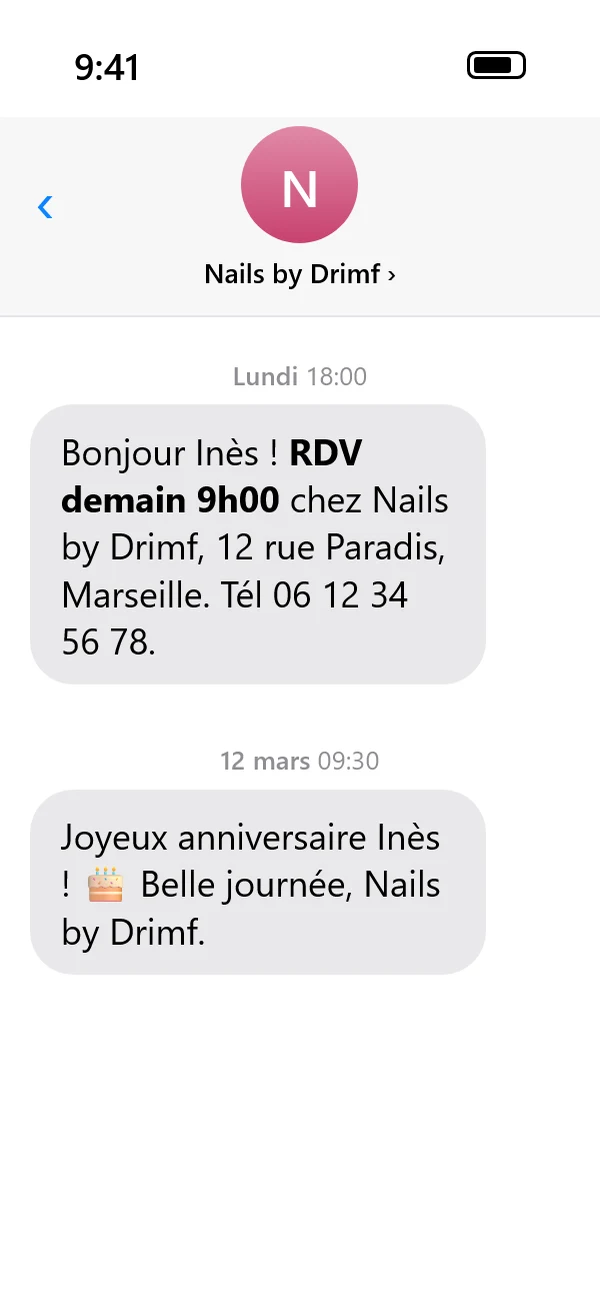
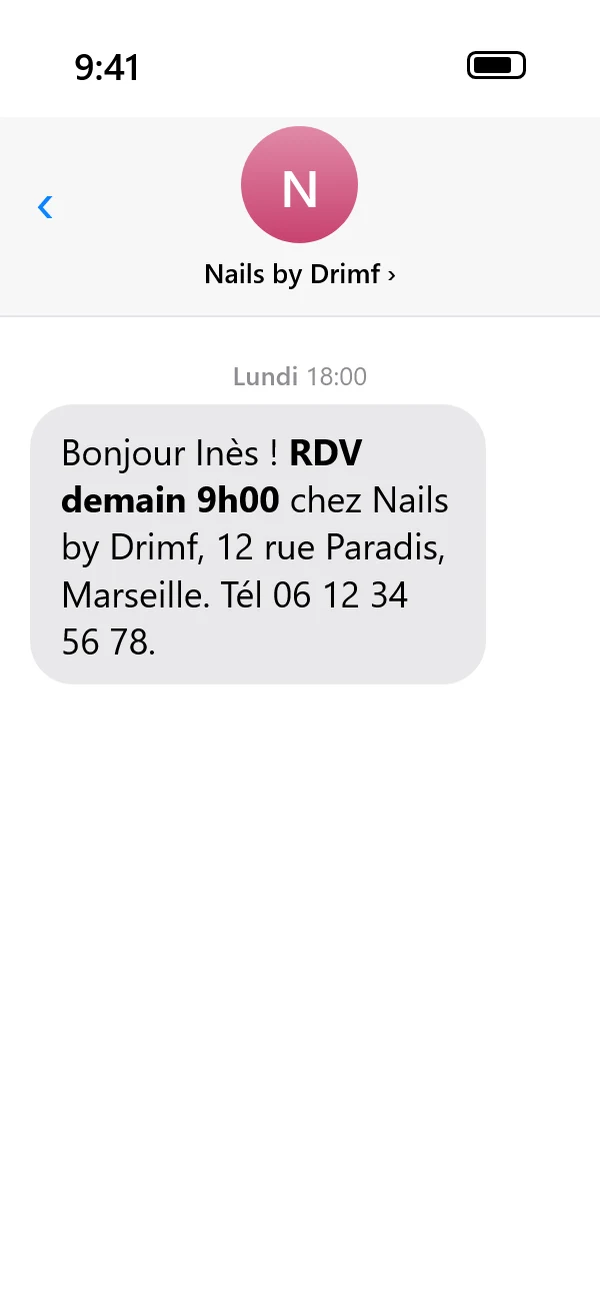
Accueil V7 (Marie, 27/11) : liste sans pilule (nom de classe en double corrigé), agenda en téléphone entier, SMS « Le rappel part tout seul, en illimité » sans anniversaire, fiche/story/site en écran en grand sans téléphone (choix B)

Changed region(s): [[0.09, 0.5842, 0.75, 0.7379], [0.6, 0.5842, 0.63, 0.6149]]

diff --git a/index.html b/index.html
@@ -772,9 +772,9 @@ html{touch-action:manipulation}
 .tel-z.entier{width:156px;height:326px}.tel-z.entier .ecr{height:314px}
 .car .fx .sous-fx{margin-top:2px!important}
 /* V6 · 27/11 (Marie) : la liste sur UNE ligne ; les 5 cartes = les VRAIS écrans de l'appli, en entier, plus courtes */
-.haut .chapo.liste.une .ln{white-space:nowrap}
-.haut .chapo.liste.une i{margin:0 .4em}
-@media (max-width:1099px){.haut .chapo.liste.une{font-size:min(16px,2.96vw);letter-spacing:0}}
+.haut .chapo.liste.uneligne .ln{white-space:nowrap}
+.haut .chapo.liste.uneligne i{margin:0 .4em}
+@media (max-width:1099px){.haut .chapo.liste.uneligne{font-size:min(16px,3.12vw);letter-spacing:0}}
 .car .fx.v6{padding:18px 16px 0}
 .car .fx.v6 h3{font-size:22px}
 .car .fx.v6 .tl{margin-top:14px;padding:0 0 18px}
@@ -786,6 +786,11 @@ html{touch-action:manipulation}
 #cadreAgenda .z-jour{opacity:0}#cadreAgenda.jour .z-sem{opacity:0}#cadreAgenda.jour .z-jour{opacity:1}
 #eventail img{opacity:0}#eventail img.on{opacity:1}
 @media (min-width:860px){.t6{width:150px}.t6.coupe{width:230px;height:290px}}
+/* V7 · 27/11 (Marie : « B · Écran en grand ») : fiche, story, site sans téléphone, l'écran en grand et lisible */
+.grand{position:relative;width:100%;max-width:258px;margin:0 auto;border-radius:22px;overflow:hidden;box-shadow:0 18px 34px -18px rgba(60,20,40,.45);background:#fff}
+.grand img{display:block;width:100%}
+.grand.st{width:168px;aspect-ratio:9/16}.grand.st img{height:100%;object-fit:cover}
+.grand.si{height:290px;width:222px}.grand.si img{position:absolute;inset:0;height:100%;object-fit:cover;object-position:50% 80%;transition:opacity .45s}
 </style></head>
 <body>
 <svg width="0" height="0" style="position:absolute" aria-hidden="true"><symbol id="pomme" viewBox="0 0 24 24"><path fill="currentColor" d="M16.37 1.43c0 1.14-.5 2.27-1.18 3.08-.74.9-1.99 1.57-2.99 1.57-.12 0-.23-.02-.3-.03-.01-.06-.04-.22-.04-.39 0-1.15.57-2.27 1.2-2.98.81-.94 2.15-1.64 3.25-1.68.03.13.06.28.06.43zm4.56 15.71c-.03.07-.46 1.58-1.52 3.12-.94 1.34-1.94 2.71-3.43 2.71-1.52 0-1.9-.88-3.63-.88-1.7 0-2.3.91-3.67.91-1.38 0-2.33-1.26-3.43-2.8C4.04 18.38 3 15.57 3 12.92c0-4.28 2.8-6.55 5.55-6.55 1.45 0 2.68.95 3.6.95.87 0 2.22-1.01 3.9-1.01.62 0 2.89.06 4.38 2.19-.13.09-2.39 1.37-2.39 4.19 0 3.26 2.86 4.42 2.96 4.45z"/></symbol></svg>
@@ -803,7 +808,7 @@ html{touch-action:manipulation}
     <div class="txt">
       <div class="k">Pensé par une prothésiste</div>
       <h1 class="serif">L’appli pour toutes<br><span class="l2n">les <em>prothésistes<svg viewBox="0 0 200 20" preserveAspectRatio="none" aria-hidden="true"><path pathLength="1" d="M3 14 C 50 4, 120 4, 197 11" fill="none" stroke="currentColor" stroke-width="6" stroke-linecap="round"/></svg></em> ongulaires.</span></h1>
-      <p class="chapo liste une"><span class="ln">Agenda<i>·</i>Fiches clientes<i>·</i>Caisse<i>·</i>Rappels SMS<i>·</i>Site internet</span></p>
+      <p class="chapo liste uneligne"><span class="ln">Agenda<i>·</i>Fiches clientes<i>·</i>Caisse<i>·</i>Rappels SMS<i>·</i>Site internet</span></p>
       <a class="as officiel" id="telecharger" href="loginail-creer/telecharger.html"><img src="loginail-site/badge-app-store-fr.svg" alt="Télécharger dans l’App Store" width="190" height="60"></a>
       <p class="prix-l"><b>1er mois offert</b>, puis 49,99&nbsp;€/mois<br>Sans engagement · <i>Sur iPhone</i></p>
     </div>
@@ -843,15 +848,15 @@ html{touch-action:manipulation}
     <div class="fonctions" id="fonctions">
       <article class="fx v6"><div class="k">Agenda</div><h3>Ta semaine,<br><em>d’un coup d’œil.</em></h3>
         <div class="vues" id="vues"><button type="button" class="on" data-v="0">Semaine</button><button type="button" data-v="1">Jour</button><i aria-hidden="true"></i></div>
-        <div class="tl"><div class="t6 coupe" id="cadreAgenda"><img class="z-sem" src="loginail-site/apercus-univers/app-agenda-semaine-2711.webp" alt="L’agenda de l’appli, vue semaine" loading="lazy"><img class="z-jour" src="loginail-site/apercus-univers/app-agenda-jour-2711.webp" alt="L’agenda de l’appli, vue jour" loading="lazy"></div></div></article>
-      <article class="fx v6"><div class="k">SMS</div><h3>Rappel la veille,<br><em>illimité.</em></h3><p class="sous-fx">+ l’anniversaire, quand tu veux.</p>
-        <div class="tl"><div class="t6"><img src="loginail-site/apercus-univers/sms-rappel-2711.webp" alt="Le SMS de rappel reçu par la cliente la veille, et le SMS d’anniversaire" loading="lazy"></div></div></article>
+        <div class="tl"><div class="t6" id="cadreAgenda"><img class="z-sem" src="loginail-site/apercus-univers/app-agenda-semaine-2711.webp" alt="L’agenda de l’appli, vue semaine" loading="lazy"><img class="z-jour" src="loginail-site/apercus-univers/app-agenda-jour-2711.webp" alt="L’agenda de l’appli, vue jour" loading="lazy"></div></div></article>
+      <article class="fx v6"><div class="k">SMS</div><h3>Le rappel part tout seul,<br><em>en illimité.</em></h3>
+        <div class="tl"><div class="t6"><img src="loginail-site/apercus-univers/sms-rappel-2711.webp" alt="Le SMS de rappel reçu par la cliente la veille" loading="lazy"></div></div></article>
       <article class="fx v6"><div class="k">Fiches clientes</div><h3>Tu te souviens<br><em>de tout.</em></h3>
-        <div class="tl"><div class="t6"><img src="loginail-site/apercus-univers/app-fiche-2711.webp" alt="La fiche d’une cliente dans l’appli" loading="lazy"></div></div></article>
+        <div class="tl"><div class="grand"><img src="loginail-site/apercus-univers/app-notes-haut-2711.webp" alt="Les notes d’une cliente dans l’appli : en couple, des enfants, un animal…" loading="lazy"></div></div></article>
       <article class="fx v6"><div class="k">Partager mes dispos</div><h3>Ta story,<br><em>toute prête.</em></h3>
-        <div class="tl"><div class="t6"><img src="loginail-site/apercus-univers/story-satin-2711.webp" alt="La story « Mes dispos » faite par l’appli" loading="lazy"></div></div></article>
+        <div class="tl"><div class="grand st"><img src="loginail-site/apercus-univers/story-satin-2711.webp" alt="La story « Mes dispos » faite par l’appli" loading="lazy"></div></div></article>
       <article class="fx v6"><div class="k">Le plus</div><h3>Ton site inclus,<br><em>à ton nom.</em></h3>
-        <div class="tl"><div class="t6" id="eventail"><img src="loginail-site/apercus-univers/look-roue-15.webp" alt="" loading="lazy"><img src="loginail-site/apercus-univers/look-roue-13.webp" alt="" loading="lazy"><img src="loginail-site/apercus-univers/look-roue-3.webp" alt="" loading="lazy"><img src="loginail-site/apercus-univers/look-roue-4.webp" alt="" loading="lazy"><img src="loginail-site/apercus-univers/look-roue-12.webp" alt="" loading="lazy"><img src="loginail-site/apercus-univers/look-roue-14.webp" alt="" loading="lazy"></div></div></article>
+        <div class="tl"><div class="grand si" id="eventail"><img src="loginail-site/apercus-univers/look-roue-15.webp" alt="" loading="lazy"><img src="loginail-site/apercus-univers/look-roue-13.webp" alt="" loading="lazy"><img src="loginail-site/apercus-univers/look-roue-3.webp" alt="" loading="lazy"><img src="loginail-site/apercus-univers/look-roue-4.webp" alt="" loading="lazy"><img src="loginail-site/apercus-univers/look-roue-12.webp" alt="" loading="lazy"><img src="loginail-site/apercus-univers/look-roue-14.webp" alt="" loading="lazy"></div></div></article>
     </div>
     <div class="pts-fx" id="ptsFonctions" aria-hidden="true"></div>
   </div>
